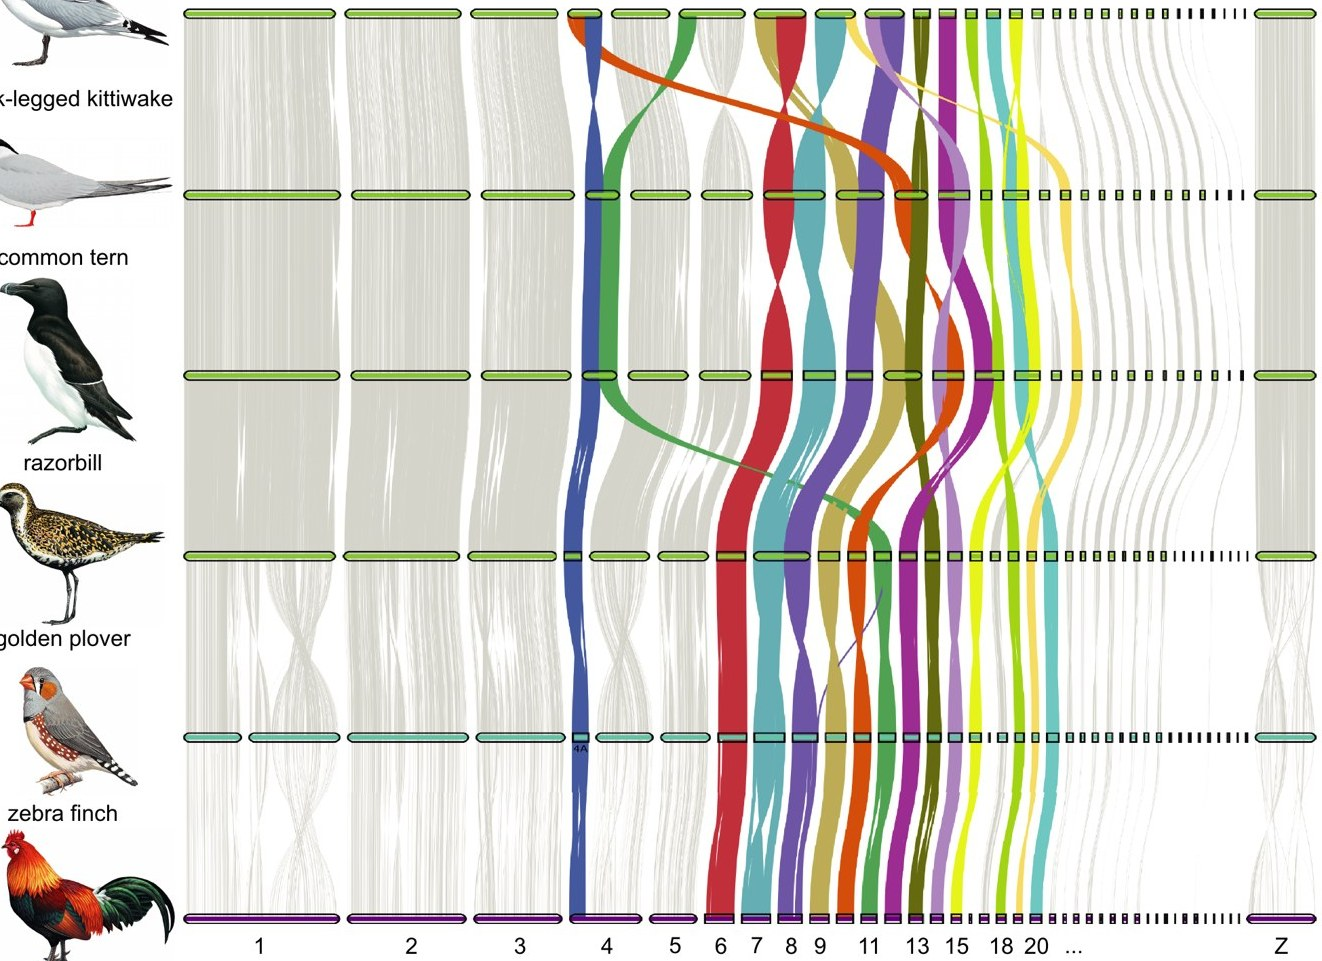
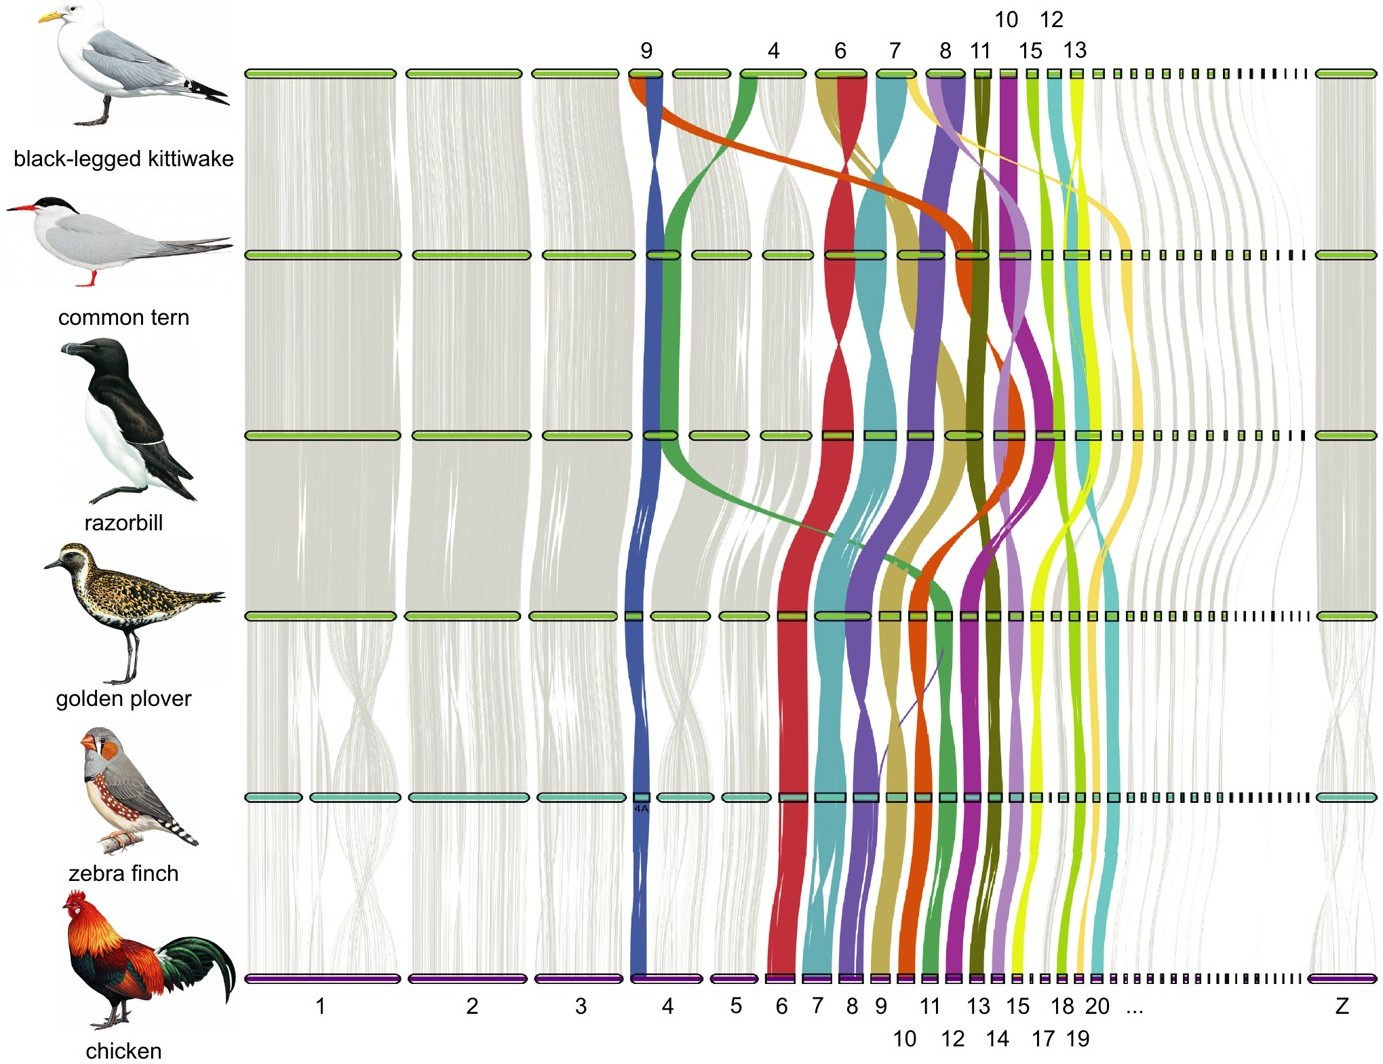
Restore the full alignment figure (labels were clipped); trim light edge rows from the shearwater photo

diff --git a/style.css b/style.css
@@ -175,7 +175,7 @@ a:hover { text-decoration: underline; }
    (1400 x 1299) so that photo fills its box edge to edge; the three
    white-backed figures are fitted inside whole, and their margins are white
    on white */
-.study .card img { display: block; width: 100%; aspect-ratio: 1400 / 1299; object-fit: contain; border-radius: 10px;
+.study .card img { display: block; width: 100%; aspect-ratio: 1400 / 1297; object-fit: contain; border-radius: 10px;
                    background: #fff; transition: filter .2s ease; }
 .study .card:hover img { filter: brightness(.65); }
 @media (max-width: 760px) {
